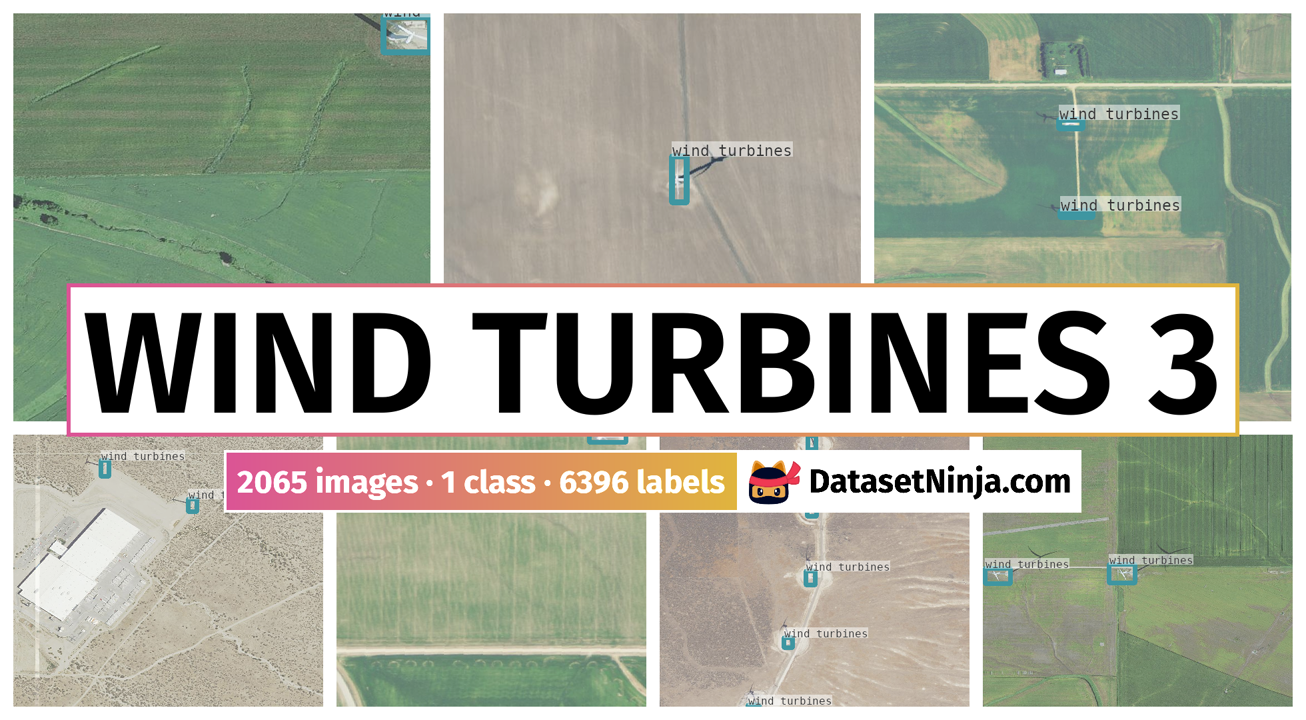
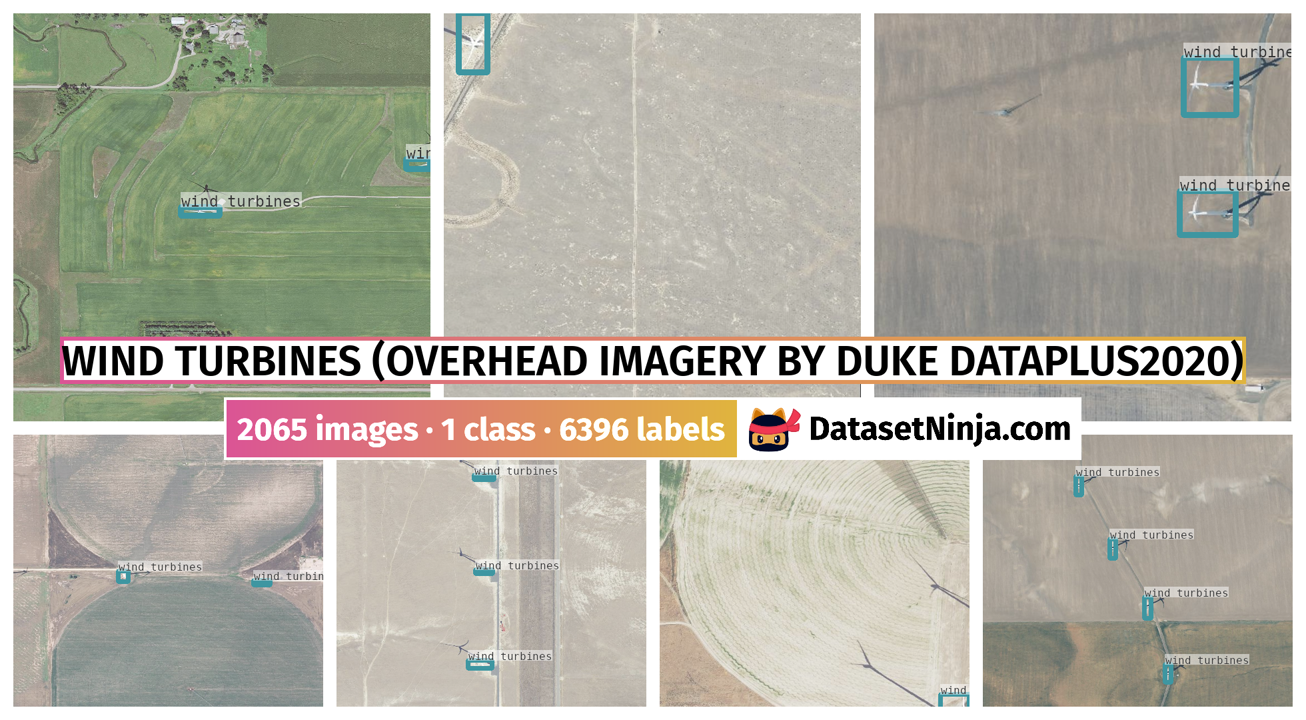
upd custom data

diff --git a/src/settings.py b/src/settings.py
@@ -1,22 +1,35 @@
 from typing import Dict, List, Optional, Union
 
-from dataset_tools.templates import AnnotationType, CVTask, Industry, License
+from dataset_tools.templates import (
+    AnnotationType,
+    Category,
+    CVTask,
+    Domain,
+    Industry,
+    License,
+    Research,
+)
 
 ##################################
 # * Before uploading to instance #
 ##################################
-PROJECT_NAME: str = "Wind Turbines 3"
+PROJECT_NAME: str = "Wind Turbines (Overhead Imagery by Duke Dataplus2020)"
 PROJECT_NAME_FULL: str = "Overhead Imagery of Wind Turbines"
 
 ##################################
 # * After uploading to instance ##
 ##################################
 LICENSE: License = License.CC_BY_4_0()
-INDUSTRIES: List[Industry] = [Industry.Energy()]
+APPLICATIONS: List[Union[Industry, Domain, Research]] = [Industry.Energy(is_used=False)]
+CATEGORY: Category = Category.EnergyAndUtilities(extra=Category.Aerial())
+
 CV_TASKS: List[CVTask] = [CVTask.ObjectDetection()]
 ANNOTATION_TYPES: List[AnnotationType] = [CVTask.ObjectDetection()]
 
-RELEASE_YEAR: int = 2020
+RELEASE_DATE: Optional[str] = "2020-07-31"  # e.g. "YYYY-MM-DD"
+if RELEASE_DATE is None:
+    RELEASE_YEAR: int = None
+
 HOMEPAGE_URL: str = (
     "https://figshare.com/articles/dataset/Overhead_Imagery_of_Wind_Turbines/12744977"
 )
@@ -41,8 +54,12 @@ CLASS2COLOR: Optional[Dict[str, List[str]]] = None
 
 PAPER: Optional[str] = None
 CITATION_URL: Optional[str] = "https://doi.org/10.6084/m9.figshare.12744977.v1"
+AUTHORS: Optional[List[str]] = ["Duke Dataplus2020"]
+
 ORGANIZATION_NAME: Optional[Union[str, List[str]]] = None
 ORGANIZATION_URL: Optional[Union[str, List[str]]] = None
+
+SLYTAGSPLIT: Optional[Dict[str, List[str]]] = None
 TAGS: List[str] = None
 
 ##################################
@@ -57,10 +74,15 @@ def check_names():
 
 
 def get_settings():
+    if RELEASE_DATE is not None:
+        global RELEASE_YEAR
+        RELEASE_YEAR = int(RELEASE_DATE.split("-")[0])
+
     settings = {
         "project_name": PROJECT_NAME,
         "license": LICENSE,
-        "industries": INDUSTRIES,
+        "applications": APPLICATIONS,
+        "category": CATEGORY,
         "cv_tasks": CV_TASKS,
         "annotation_types": ANNOTATION_TYPES,
         "release_year": RELEASE_YEAR,
@@ -72,13 +94,16 @@ def get_settings():
     if any([field is None for field in settings.values()]):
         raise ValueError("Please fill all fields in settings.py after uploading to instance.")
 
+    settings["release_date"] = RELEASE_DATE
     settings["project_name_full"] = PROJECT_NAME_FULL or PROJECT_NAME
     settings["download_original_url"] = DOWNLOAD_ORIGINAL_URL
     settings["class2color"] = CLASS2COLOR
     settings["paper"] = PAPER
     settings["citation_url"] = CITATION_URL
+    settings["authors"] = AUTHORS
     settings["organization_name"] = ORGANIZATION_NAME
     settings["organization_url"] = ORGANIZATION_URL
-    settings["tags"] = TAGS if TAGS is not None else []
+    settings["slytagsplit"] = SLYTAGSPLIT
+    settings["tags"] = TAGS
 
     return settings

diff --git a/DOWNLOAD.md b/DOWNLOAD.md
@@ -1,6 +1,6 @@
-Dataset **Wind Turbines 3** can be downloaded in Supervisely format:
+Dataset **Wind Turbines (Overhead Imagery by Duke Dataplus2020)** can be downloaded in Supervisely format:
 
- [Download](https://assets.supervisely.com/supervisely-supervisely-assets-public/teams_storage/x/D/6p/4pZUeB8ruNTokW6cwidVED2449D1HMX91QoTJP4CiHgLoWzHKvZ2dn4rBEb8kmV3h2RCiwsF7YaWcKFryONbwJ8Ip9EU8tIbhyLXp6P0s8TJugrGnPQGru9L88Ct.tar)
+ [Download](https://assets.supervisely.com/supervisely-supervisely-assets-public/teams_storage/9/6/td/DCkGLdf0QdTq5NBaOzvWmvtEXkcF1uIvHJ7mUB3FleXqEmLyuE6EZHqTAShjWAI1684Cbhcc03wvRfdWebenipNOb84sHwbzB7QLcqX9GCeiN5Ok4zRVEGZYolar.tar)
 
 As an alternative, it can be downloaded with *dataset-tools* package:
 ``` bash
@@ -11,6 +11,6 @@ pip install --upgrade dataset-tools
 ``` python
 import dataset_tools as dtools
 
-dtools.download(dataset='Wind Turbines 3', dst_path='~/dtools/datasets/Wind Turbines 3.tar')
+dtools.download(dataset='Wind Turbines (Overhead Imagery by Duke Dataplus2020)', dst_path='~/dtools/datasets/Wind Turbines (Overhead Imagery by Duke Dataplus2020).tar')
 ```
 The data in original format can be 🔗[downloaded here](https://figshare.com/ndownloader/files/24121976)

diff --git a/SUMMARY.md b/SUMMARY.md
@@ -1,8 +1,8 @@
-**Overhead Imagery of Wind Turbines** is a dataset for object detection tasks. It is used in the energy industry.
+**Overhead Imagery of Wind Turbines** is a dataset for object detection tasks. Possible applications of the dataset could be in the energy industry. 
 
 The dataset consists of 2065 images with 6396 labeled objects belonging to 1 single class (*wind turbines*).
 
-Images in the Wind Turbines 3 dataset has bounding box annotations. There are 512 (25% of the total) unlabeled images (i.e. without annotations). There are 2 splits in the dataset: *train* (1652 images) and *val* (413 images). The dataset was released in 2020.
+Images in the Wind Turbines (Overhead Imagery by Duke Dataplus2020) dataset have bounding box annotations. There are 512 (25% of the total) unlabeled images (i.e. without annotations). There are 2 splits in the dataset: *train* (1652 images) and *val* (413 images). The dataset was released in 2020.
 
 Here is the visualized example grid with annotations:
 

diff --git a/CITATION.md b/CITATION.md
@@ -1,7 +1,14 @@
 If you make use of the Wind Turbines 3 data, please cite the following reference:
 
-``` bibtex
-PASTE HERE CUSTOM CITATION FROM THE SOURCE URL
+```bibtex
+@article{Duke Dataplus20202020,
+author = "Duke Dataplus2020",
+title = "{Overhead Imagery of Wind Turbines}",
+year = "2020",
+month = "7",
+url = "https://figshare.com/articles/dataset/Overhead_Imagery_of_Wind_Turbines/12744977",
+doi = "10.6084/m9.figshare.12744977.v1"
+}
 ```
 
 [🔗 Source](https://doi.org/10.6084/m9.figshare.12744977.v1)
